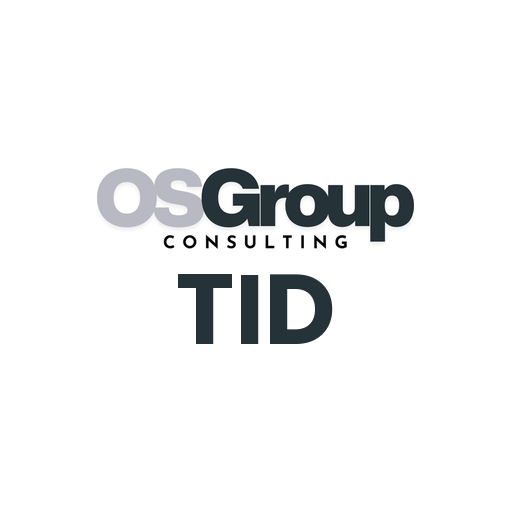
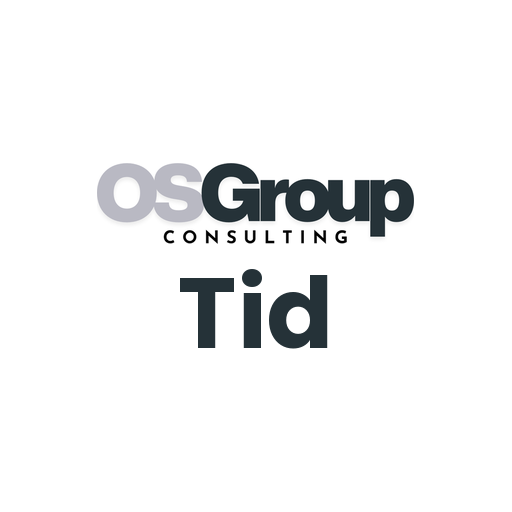
App-ikon: Tid i stedet for TID
Claude-Session: https://claude.ai/code/session_01Y8bbroLia7ucZLsUgXWjAv

Changed region(s): [[0.1875, 0.3125, 0.8125, 0.6875]]

diff --git a/index.html b/index.html
@@ -4,7 +4,7 @@
 <title>OS Group Tidsregistrering</title>
 <meta name="theme-color" content="#16212b"><meta name="robots" content="noindex,nofollow">
 <link rel="manifest" href="manifest.webmanifest">
-<link rel="apple-touch-icon" href="apple-touch-icon.png?v=2"><link rel="icon" href="icon-192.png"><meta name="apple-mobile-web-app-capable" content="yes"><meta name="apple-mobile-web-app-title" content="Tidsreg OS Group">
+<link rel="apple-touch-icon" href="apple-touch-icon.png?v=3"><link rel="icon" href="icon-192.png"><meta name="apple-mobile-web-app-capable" content="yes"><meta name="apple-mobile-web-app-title" content="Tidsreg OS Group">
 <link rel="preconnect" href="https://fonts.googleapis.com"><link rel="preconnect" href="https://cdn.jsdelivr.net"><link href="https://fonts.googleapis.com/css2?family=Inter:wght@400;500;600;700;800&display=swap" rel="stylesheet" media="print" onload="this.media='all'">
 <link rel="stylesheet" href="style.css"></head><body class="noauth">
[1 lines of base64/hex data omitted]

diff --git a/sw.js b/sw.js
@@ -1,4 +1,4 @@
-const V='tid-v10',SHELL=['./','index.html','style.css','app.js','dinero.js','config.js','manifest.webmanifest'];
+const V='tid-v11',SHELL=['./','index.html','style.css','app.js','dinero.js','config.js','manifest.webmanifest'];
 const CDN=['cdn.jsdelivr.net','fonts.googleapis.com','fonts.gstatic.com'];
 self.addEventListener('install',e=>{e.waitUntil(caches.open(V).then(c=>c.addAll(SHELL.map(u=>new Request(u,{cache:'reload'})))).then(()=>self.skipWaiting()))});
 self.addEventListener('activate',e=>{e.waitUntil(caches.keys().then(k=>Promise.all(k.filter(x=>x!==V).map(x=>caches.delete(x)))).then(()=>self.clients.claim()))});
